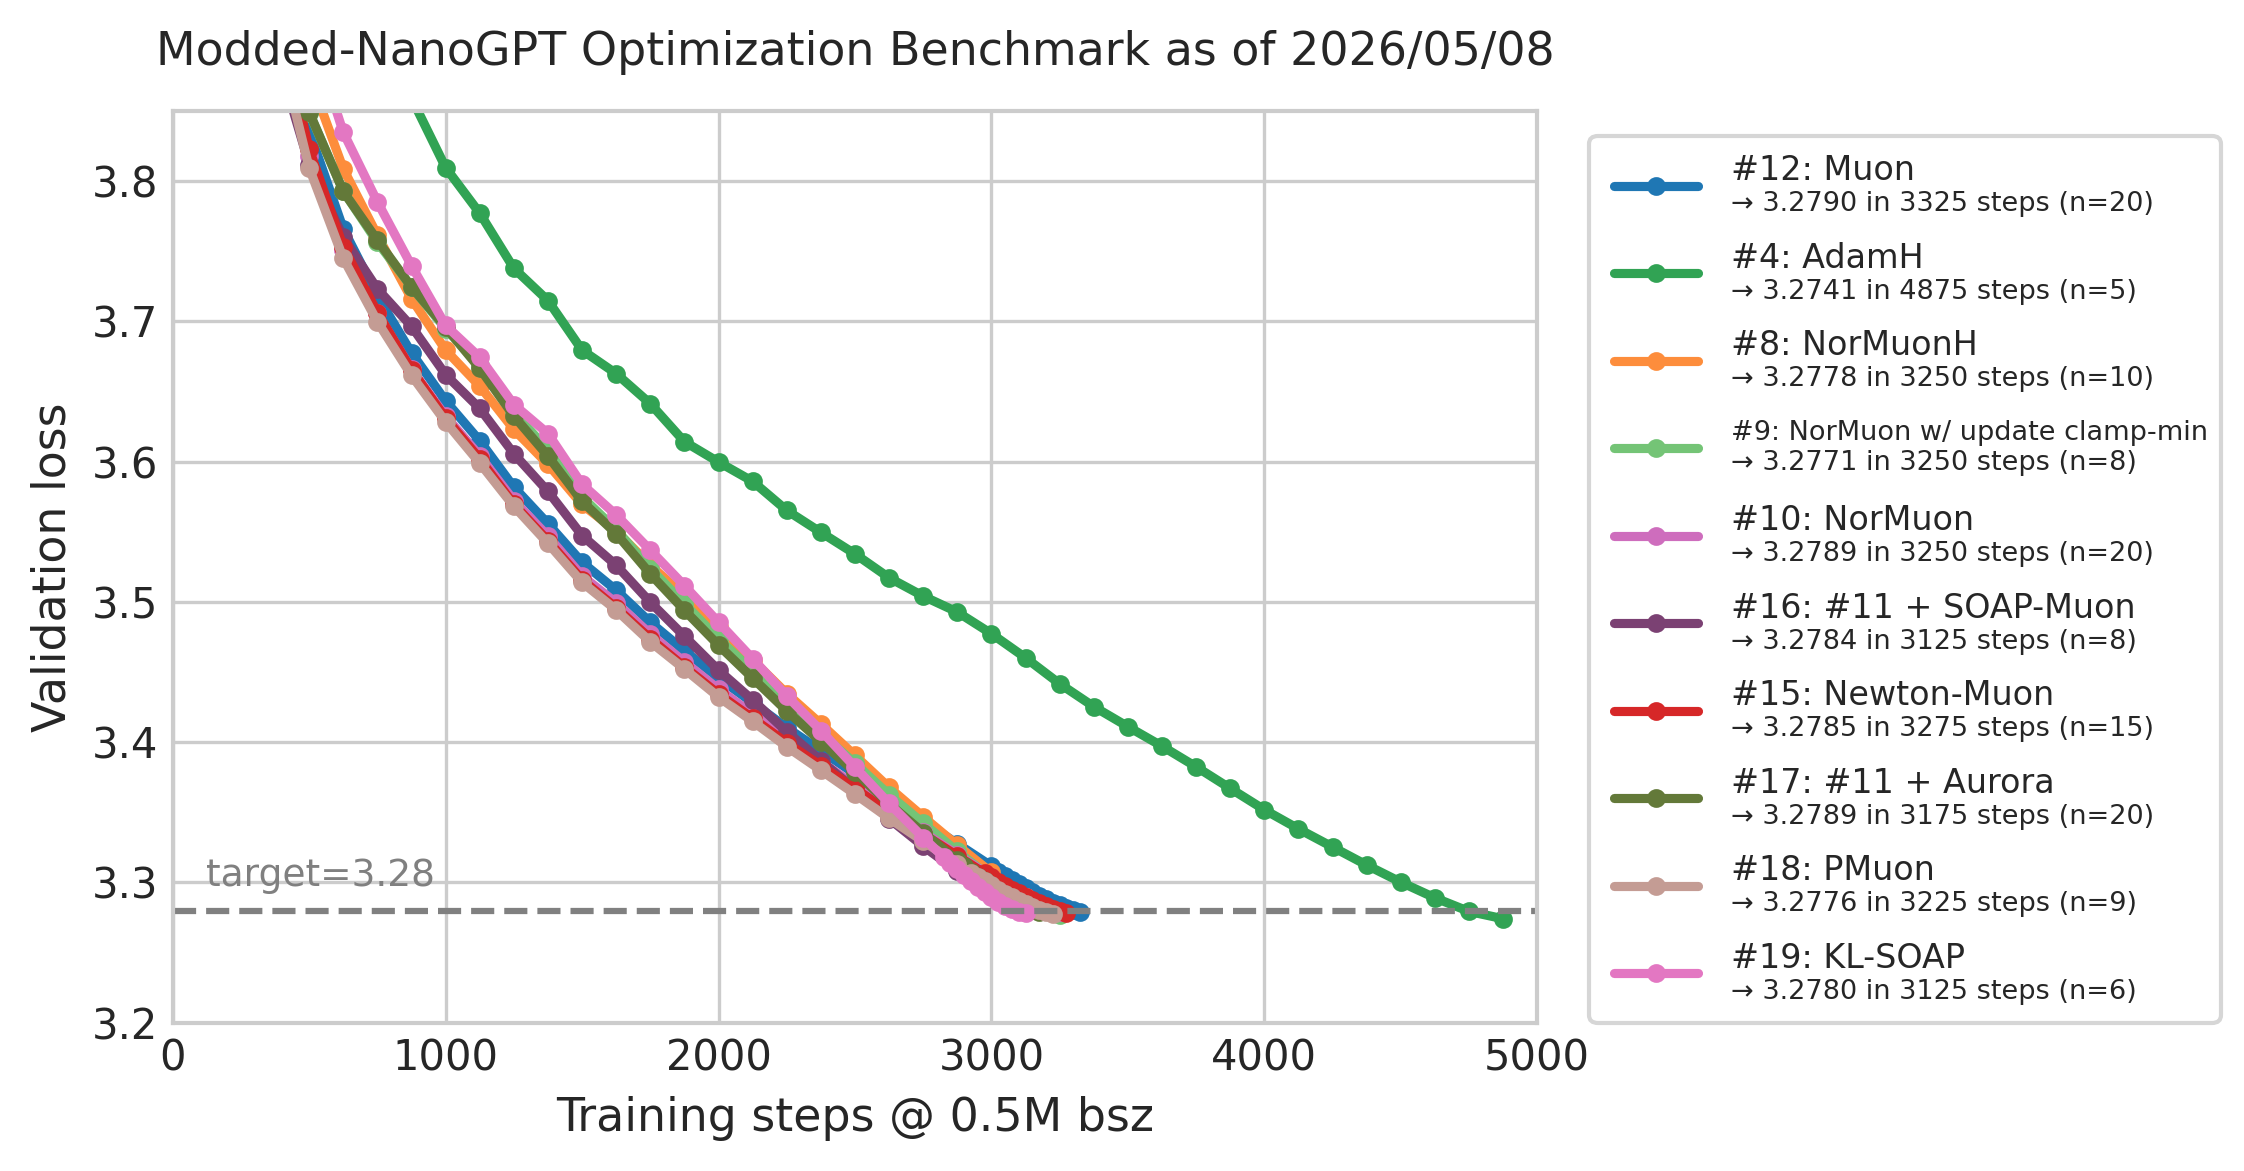
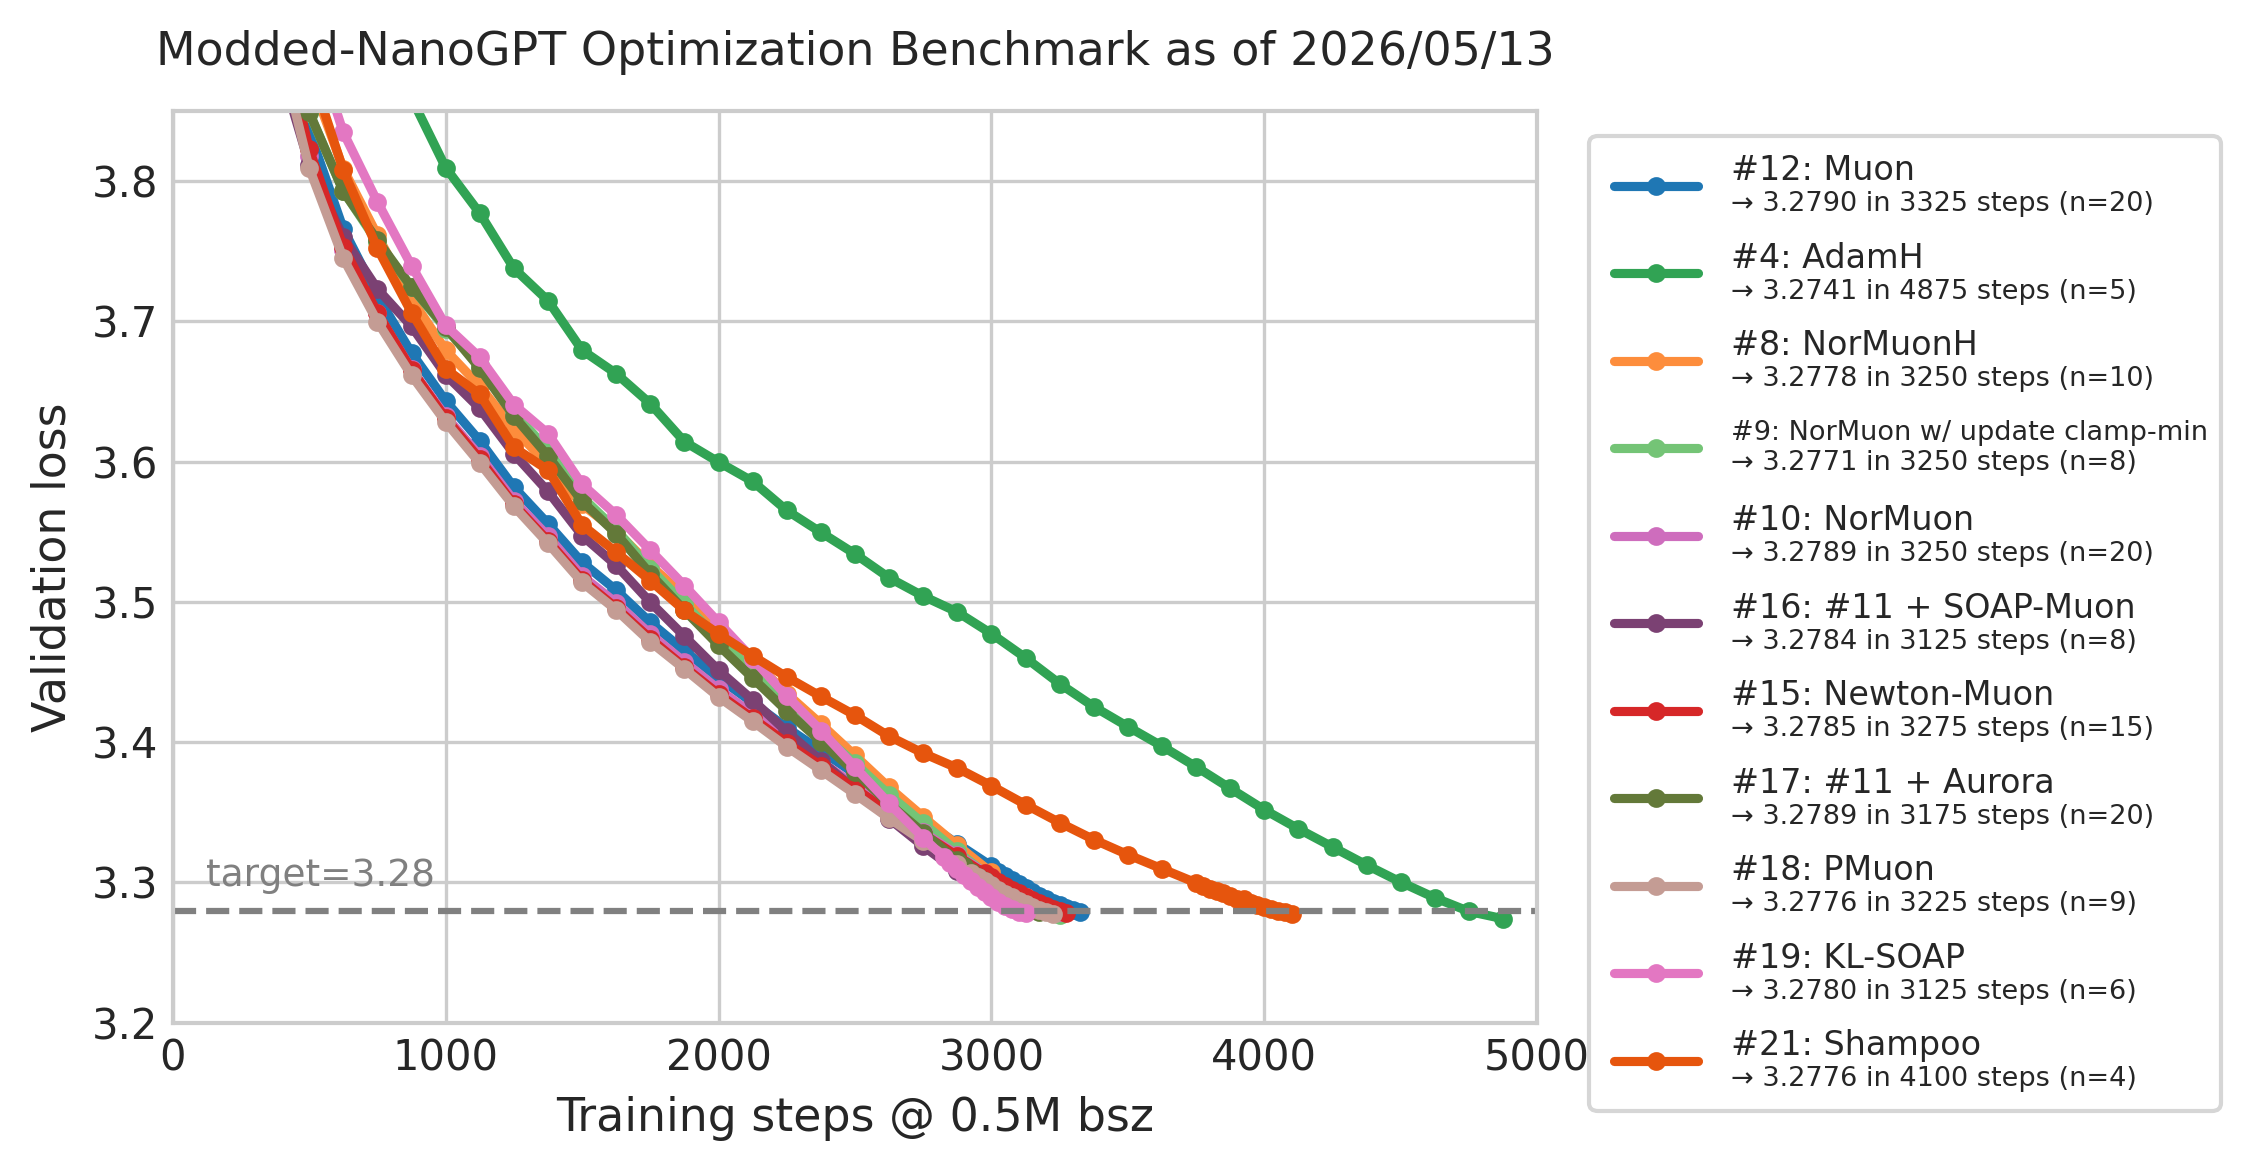
.

diff --git a/records/track_3_optimization/make_figures.py b/records/track_3_optimization/make_figures.py
@@ -215,6 +215,7 @@ for suffix in ["wr", "best"]:
             17: '#11 + Aurora',
             18: 'PMuon',
             19: 'KL-SOAP',
+            21: 'Shampoo',
         }
     else:
         assert False

diff --git a/records/track_3_optimization/README.md b/records/track_3_optimization/README.md
@@ -54,7 +54,7 @@ If it fails to reproduce (i.e., we get statistical evidence that its mean is abo
 | 18 | 3225 | 3.2776 (n=9)✓ | [PMuon](results/20260507_pmuon/README.md) (Muon + bilateral streaming covariance power preconditioning), lr=.035 wd=.025 γ=.3 β=.95 | 2026/05/07 | [log](results/20260507_pmuon/54fc0541-7a62-4772-a8f8-d3a46ad10dba.txt) | [PR](https://github.com/KellerJordan/modded-nanogpt/pull/285) | @zzp1012 |
 | 19 | 3125 | 3.2780 (n=6)✓ | Setup from #8, with NorMuonH replaced by [KL-SOAP](https://arxiv.org/abs/2509.03378) with hyperball optimization, precondition_frequency=1, lr=.018, beta1=.95, beta2=.9, shampoo_beta=.9  | 2026/05/08 | [log](results/20260508_klsoap_h_clean_tuple_sweep/b1095_sh090/klsoap-h-b1095_sh090-K3125-seed-1.full.txt) | [PR](https://github.com/KellerJordan/modded-nanogpt/pull/290) | @kaiyue-wen |
 | 20 | 3030(!) | 3.2790 (n=30)✓ | Setup from #16, plus interpolation between Contra-Muon and new method Soft-Muon, plus tuned lr schedule inherited from thingy | 2026/05/09 | [log](results/20260509_contra_soft_muon/03c36e81-e2e5-4916-bf16-0141999b1dbb.txt) | [PR](https://github.com/KellerJordan/modded-nanogpt/pull/291) | @nilin |
-| 21 | 4100 | 3.2776 (n=4)✓ | Shampoo(power=-1/4, lr=0.0015, betas=(.9, .95), weight_decay=0.2, precond_freq=5) | [log](results/20260513_shampoo_1_4_power/503575c5-6dde-425a-b461-2df4d99db974.txt) | N/A | @kellerjordan0 |
+| 21 | 4100 | 3.2776 (n=4)✓ | Shampoo(power=-1/4, lr=0.0015, betas=(.9, .95), weight_decay=0.2, precond_freq=5) | 2026/05/13 | [log](results/20260513_shampoo_1_4_power/503575c5-6dde-425a-b461-2df4d99db974.txt) | N/A | @kellerjordan0 |
 
 <table>
   <tr>
